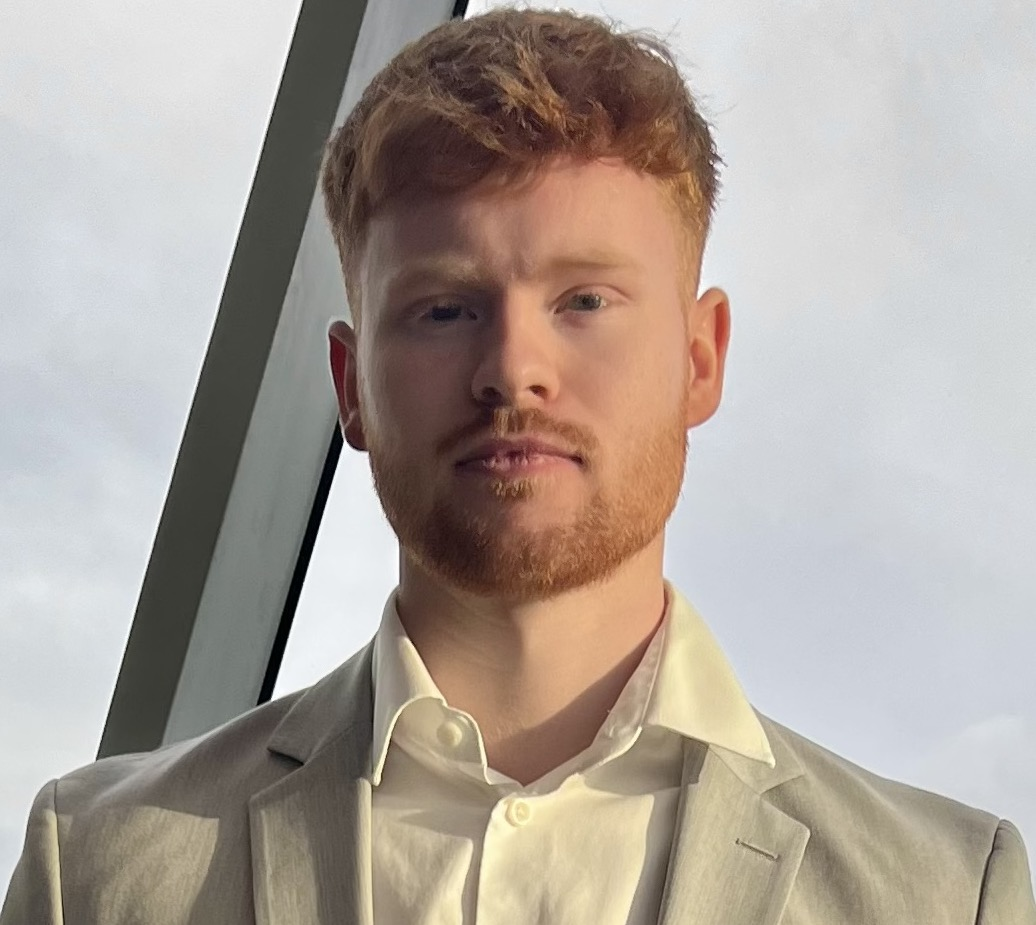
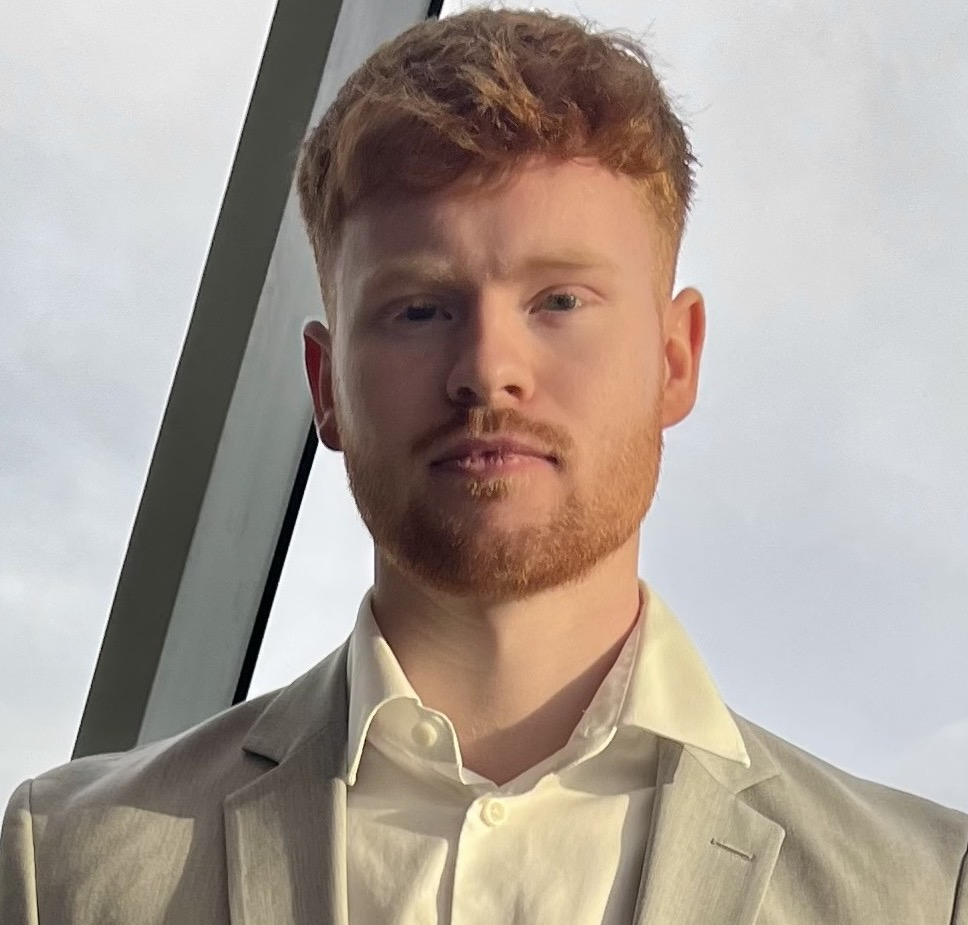
Some fixes, text and layout

diff --git a/src/app/sections/ExperienceSection.tsx b/src/app/sections/ExperienceSection.tsx
@@ -31,40 +31,92 @@ export default function ExperienceSection() {
       >
       <div className='w-full md:w-1/2'>
       <h1
-          className={`text-[#ccf381] md:max-w-[20vw] leading-none text-xl md:text-[4em] font-bold transform transition-all duration-500 ease-in-out delay-300 ${
+          className={`text-[#ccf381] md:max-w-[450px] leading-none text-2xl md:text-6xl font-bold transform transition-all duration-500 ease-in-out delay-100 ${
             isVisible ? 'opacity-100 translate-y-0' : 'opacity-0 translate-y-10'
           }`}
         >
-          My Journey So Far
+          My Experience 
         </h1>
-        <p
-          className={`text-white text-xs md:text-base md:max-w-[27vw] leading-relaxed mt-4 transform transition-all duration-500 ease-in-out delay-300 ${
+
+        <h3
+          className={`text-white text-md md:text-3xl md:max-w-[750px] leading-relaxed mt-4 transform transition-all duration-500 ease-in-out delay-300 ${
             isVisible ? 'opacity-100 translate-y-0' : 'opacity-0 translate-y-10'
           }`}
         >  
-          I specialize in front-end development, leveraging frameworks like Flutter and Vue.js to create intuitive user interfaces. While I gained foundational skills in React and TypeScript through academic projects, I quickly developed a strong ability to design and adapt to evolving technologies.
+          Full-Stack Skills
+        </h3>
+        <p
+          className={`text-white text-xs md:text-xl md:max-w-[750px] leading-relaxed transform transition-all duration-500 ease-in-out delay-300 ${
+            isVisible ? 'opacity-100 translate-y-0' : 'opacity-0 translate-y-10'
+          }`}
+        >  
+          Proficient in frameworks like Flutter, Vue.js, Next.js, and TypeScript, and backend technologies including Django, Firebase, and serverless architectures
+        </p>
+
+        <h3
+          className={`text-white text-md md:text-3xl md:max-w-[750px] leading-relaxed mt-4 transform transition-all duration-500 ease-in-out delay-500 ${
+            isVisible ? 'opacity-100 translate-y-0' : 'opacity-0 translate-y-10'
+          }`}
+        >  
+          Beanfee: Leadership & Growth
+        </h3>
+        <p
+          className={`text-white text-xs md:text-xl md:max-w-[750px] leading-relaxed transform transition-all duration-500 ease-in-out delay-500 ${
+            isVisible ? 'opacity-100 translate-y-0' : 'opacity-0 translate-y-10'
+          }`}
+        >  
+          Led frontend development of a Flutter app focused on classroom engagement. Managed features, ensured scalable code, and collaborated effectively with multidisciplinary teams.
+        </p>
+
+        <h3
+          className={`text-white text-md md:text-3xl md:max-w-[750px] leading-relaxed mt-4 transform transition-all duration-500 ease-in-out delay-700 ${
+            isVisible ? 'opacity-100 translate-y-0' : 'opacity-0 translate-y-10'
+          }`}
+        >  
+          Stokkur: Agile Development
+        </h3>
+        <p
+          className={`text-white text-xs md:text-xl md:max-w-[750px] leading-relaxed transform transition-all duration-500 ease-in-out delay-700 ${
+            isVisible ? 'opacity-100 translate-y-0' : 'opacity-0 translate-y-10'
+          }`}
+        >  
+          Worked within an agile team developing performant Flutter mobile apps. Engaged in sprint planning, rigorous code reviews, and feedback loops for rapid, high-quality development.
+        </p>
+
+        <h3
+          className={`text-white text-md md:text-3xl md:max-w-[750px] leading-relaxed mt-4 transform transition-all duration-500 ease-in-out delay-700 ${
+            isVisible ? 'opacity-100 translate-y-0' : 'opacity-0 translate-y-10'
+          }`}
+        >  
+          Academic Project: Showdeck
+        </h3>
+        <p
+          className={`text-white text-xs md:text-xl md:max-w-[750px] leading-relaxed transform transition-all duration-500 ease-in-out delay-700 ${
+            isVisible ? 'opacity-100 translate-y-0' : 'opacity-0 translate-y-10'
+          }`}
+        >  
+          Developed a real-time chat feature as an extension of Showdeck&apos;s existing website using Vue.js, TypeScript, Django, and Tailwind CSS. I Led the frontend development, contributed to backend integration, and helped deliver a polished, collaborative solution along with my team.
         </p>
         <p
-          className={`text-white text-xs md:text-base md:max-w-[27vw] leading-relaxed mt-4 transform transition-all duration-500 ease-in-out delay-500 ${
+          className={`text-white text-xs md:text-xl md:max-w-[750px] mt-4 leading-relaxed transform transition-all duration-500 ease-in-out delay-700 ${
             isVisible ? 'opacity-100 translate-y-0' : 'opacity-0 translate-y-10'
           }`}
         >  
-          At Beanfee, I honed my skills in writing clean, maintainable code while thriving in a fast-paced startup environment. As an intern at Stokkur, I collaborated with product managers and designers to turn ideas into functional features, sharpening my communication and problem-solving skills.
-        </p>
-        <p
-          className={`hidden md:flex text-white text-xs md:text-base md:max-w-[27vw] leading-relaxed mt-4 transform transition-all duration-500 ease-in-out delay-500 ${
-            isVisible ? 'opacity-100 translate-y-0' : 'opacity-0 translate-y-10'
-          }`}
-        >  
-          During my final project at Reykjavik University, I integrated technologies like Vue.js, Tailwind CSS, TypeScript, and Django to develop a real-time communication tool. This experience enhanced my ability to deliver user-focused solutions through cross-disciplinary collaboration.
+          See more details on 
+          <a
+            href="https://bjarmi.dev/work"
+            className="relative inline-block ml-2 text-[#ccf381] text-lg font-bold z-0 after:content-[''] after:bg-[#1f1753] after:h-[0.6em] after:w-[109%] after:block after:absolute after:-mt-2.5 after:-ml-[4%] after:-z-10 after:transition-transform after:duration-300 hover:after:translate-y-[0.2em] hover:after:scale-y-50"
+            >
+            bjarmi.dev/work
+          </a>
         </p>
       </div>
       <Image
         src="/images/programmer_illustration.png"
         alt="Programmer Illustration"
-        width={700}
-        height={722}
-        className={`mt-10 object-cover transform transition-all duration-500 ease-in-out delay-700 ${
+        width={600}
+        height={622}
+        className={`hidden md:flex mt-10 object-cover transform transition-all duration-500 ease-in-out delay-700 ${
           isVisible ? 'opacity-100 translate-y-0' : 'opacity-0 translate-y-10'
         }`}
         />

diff --git a/src/app/sections/AboutSection.tsx b/src/app/sections/AboutSection.tsx
@@ -26,28 +26,31 @@ export default function AboutSection() {
    return (
       <section 
         id="section2" 
-        className="bg-white relative h-screen flex flex-col items-center justify-center px-16 md:px-40 overflow-hidden"
+        className="relative h-screen flex flex-col items-center justify-center px-16 md:px-40 overflow-hidden"
       >
       {/* First Row */}
       <div className="flex flex-col md:flex-row justify-between items-center w-full">
         {/* Left Side */}
         <div className="text-left mb-4 md:mb-0">
         <h1
-            className={`text-[3em] md:text-[4em] text-[#4831d4] font-bold transform transition-all duration-700 ease-in-out delay-300 ${
+            className={`text-4xl md:text-6xl pb-4 text-[#4831d4] font-bold transform transition-all duration-700 ease-in-out delay-300 ${
               isVisible ? 'opacity-100 translate-y-0' : 'opacity-0 translate-y-10'
             }`}
           >
             About Me
           </h1>
           <p
-            className={`max-w-md text-lg leading-relaxed text-gray-600 transform transition-all duration-700 ease-in-out delay-500 ${
+            className={`max-w-xl text-[22px] leading-relaxed text-gray-600 transform transition-all duration-700 ease-in-out delay-500 ${
               isVisible ? 'opacity-100 translate-y-0' : 'opacity-0 translate-y-10'
             }`}
           >
-            I specialize in full-stack development, cross-platform apps, and
-            serverless architectures. With experience in Flutter, NextJS, TypeScript and
-            more, I strive to write clean, maintainable code while solving
-            real-world problems.
+            I'm a full-stack developer passionate about building seamless, efficient digital experiences. My tech stack includes Next.js, Flutter, Vue.js, TypeScript, Django, FastAPI, and Firebase. I focus on writing clean, scalable code, continuously expanding my knowledge in both frontend and backend technologies. View my projects on 
+            <a
+              href="https://bjarmi.dev/work"
+              className="relative inline-block ml-2 text-[#4831d4] text-xl font-bold z-0 after:content-[''] after:bg-[#ccf381] after:h-[0.6em] after:w-[109%] after:block after:absolute after:-mt-2.5 after:-ml-[4%] after:-z-10 after:transition-transform after:duration-300 hover:after:translate-y-[0.2em] hover:after:scale-y-50"
+              >
+              bjarmi.dev/work
+            </a>
           </p>
         </div>
         <div className="hidden md:block mr-32">
@@ -63,21 +66,18 @@ export default function AboutSection() {
         {/* Right Side */}
         <div className="text-left md:ml-12">
         <h1
-            className={`text-[3em] md:text-[4em] text-[#4831d4] font-bold transform transition-all duration-700 ease-in-out delay-300 ${
+            className={`text-4xl md:text-6xl pb-4 text-[#4831d4] font-bold transform transition-all duration-700 ease-in-out delay-300 ${
               isVisible ? 'opacity-100 translate-y-0' : 'opacity-0 translate-y-10'
             }`}
           >
             Engineering
           </h1>
           <p
-            className={`max-w-md text-lg leading-relaxed text-gray-600 transform transition-all duration-700 ease-in-out delay-500 ${
+            className={`max-w-xl text-[22px] leading-relaxed text-gray-600 transform transition-all duration-700 ease-in-out delay-500 ${
               isVisible ? 'opacity-100 translate-y-0' : 'opacity-0 translate-y-10'
             }`}
           >
-            I&apos;m driven to building engaging, high-quality web
-            experiences. Whether it&apos;s crafting scalable apps or designing
-            user-centric interfaces, I focus on solving challenges with
-            efficiency and creativity.
+            I build robust applications prioritizing clean architecture, scalability, and user-centric design. I collaborate closely with cross-functional teams, utilizing agile practices and iterative development to deliver high-quality, practical solut
           </p>
         </div>
       </div>

diff --git a/src/app/sections/HeroSection.tsx b/src/app/sections/HeroSection.tsx
@@ -6,10 +6,10 @@ export default function HeroSection() {
       <div className="container mx-auto flex flex-col md:flex-row items-center justify-center md:px-16 h-full px-8 mt-5">
         {/* Text Section */}
         <div className="w-full md:w-2/5 text-left px-[15vw] md:p-0">
-          <h1 className="text-[3.2em] md:text-[4.4em] font-bold text-[#ccf381] mb-4 leading-none">
+          <h1 className="text-[3.2em] md:text-8xl font-bold text-[#ccf381] mb-4 leading-none">
             Hi, I&apos;m<br />Bjarmi
           </h1>
-          <p className="text-lg text-white max-w-[20em] md:max-w-fit">
+          <p className="text-xl text-white max-w-[20em] md:max-w-fit">
           A passionate software developer crafting thoughtful, high-quality solutions. Let&apos;s create something remarkable together.
           </p>
         </div>
@@ -17,12 +17,12 @@ export default function HeroSection() {
         {/* Image Section */}
         <div className="relative w-full md:w-3/5 flex items-center pt-12 md:py-0 justify-center">
           <div className="relative z-10">
-            <div className="w-44 h-44 md:w-72 md:h-72 border border-white">
+            <div className="w-44 h-44 md:w-96 md:h-96 border-2 border-white">
               <Image
                 src="/images/handsome.jpeg"
                 alt="My Photo"
-                width={288}
-                height={288}
+                width={420}
+                height={420}
                 className="object-contain mt-[-12px] ml-[-12px]"
                 />
             </div>
